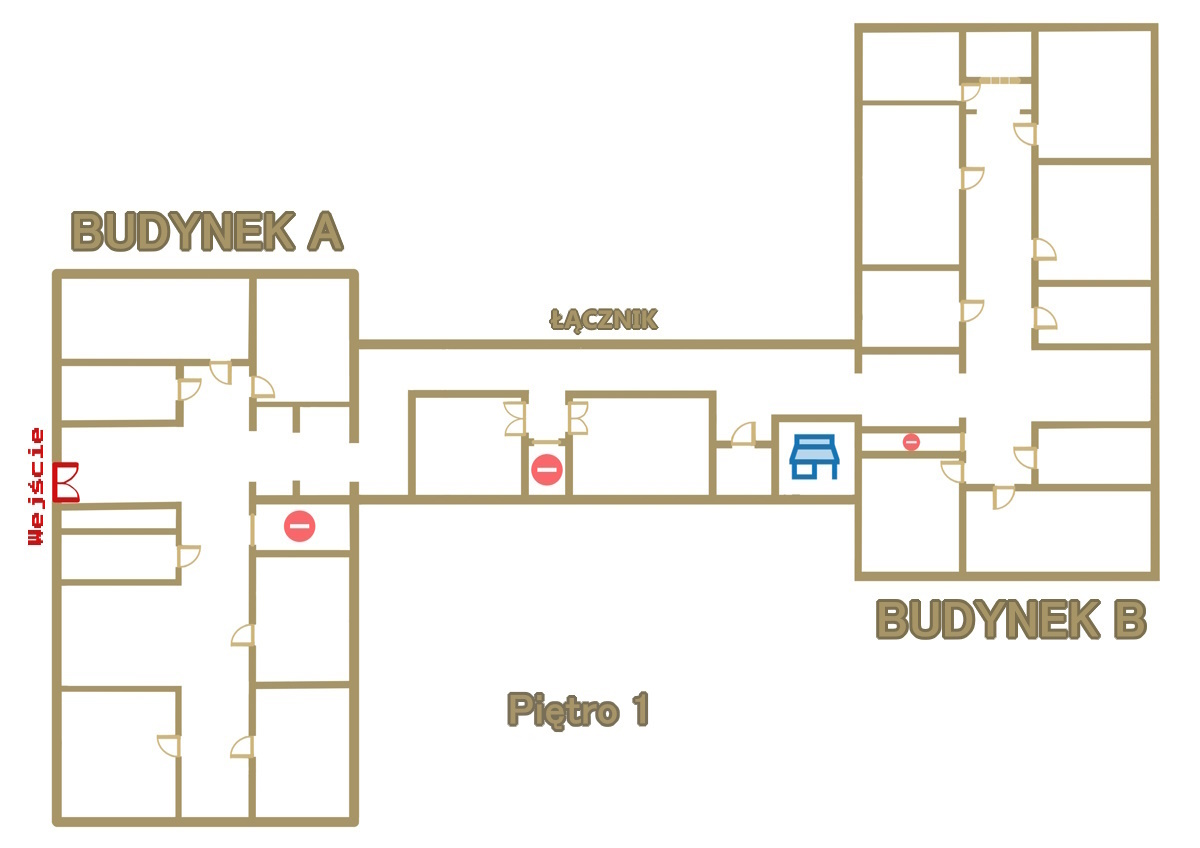
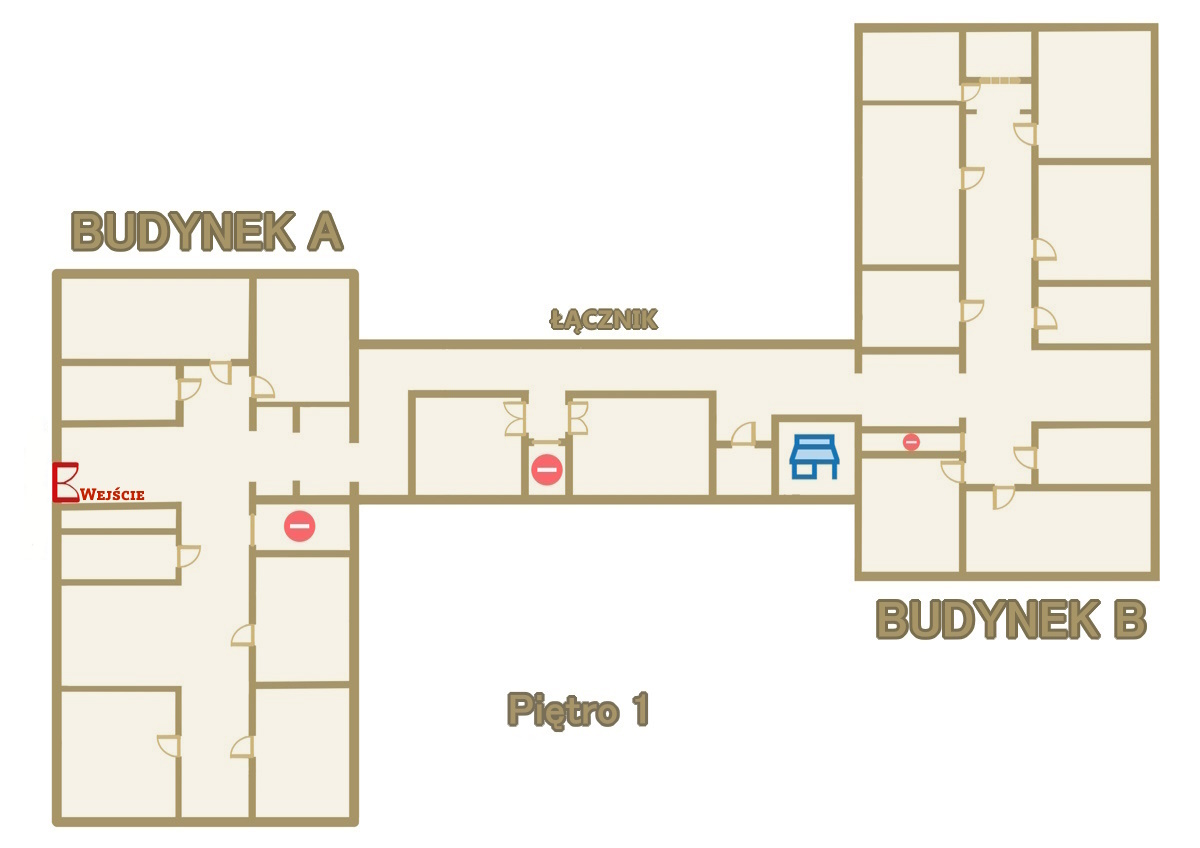
Updated floor colors, updated maniek layout

diff --git a/minigames.html b/minigames.html
@@ -12,6 +12,16 @@
 <body>
 
     <main>
+
+        <div class="enter-fullscreen">
+            <div class="background"></div>
+            <button>
+                <span class="big blue"> Włącz pełny ekran </span> <br>
+                <br> > aby poprawnie korzystać z gry <
+                <br> <span class="blue">(wciśnij ten przycisk)</span>
+            </button>
+        </div>
+
         <div class="games-side">
         
     
@@ -94,5 +104,6 @@
 
     <script src="./js/tictactoe.js"></script>
     <script src="./js/navigation.js"></script>
+    <script src="./js/enter-fullscreen.js"></script>
 </body>
 </html>

diff --git a/css/all.css b/css/all.css
@@ -69,7 +69,7 @@ body {
     left: 50%;
     transform: translate(-50%, -50%);
 
-    font-size: 2rem;
+    font-size: 1.75rem;
     font-weight: bolder;
 
     background-color: #EBEEFF;
@@ -148,7 +148,7 @@ body {
 
     text-align: left;
     padding: 0.75rem;
-    
+
     border-radius: 1rem;
     line-height: 1.75rem;
 }
@@ -421,6 +421,9 @@ main {
     padding: 2px;
     padding-right: 10px;
     padding-left: 10px;
+
+    font-weight: bold;
+    color: rgb(0, 2, 49);
 }
 .button-layer button::after {
     content: '';

diff --git a/js/map.js b/js/map.js
@@ -147,7 +147,7 @@ function mouseMove(e, isMobile) {
 }
 
 function wheel(e) {
-    if (!map_container.contains(e.target)) return;
+    if (!map_container.contains(e.target) || roomSelection.contains(e.target)) return;
 
     e.preventDefault();
     const delta = Math.sign(e.deltaY);

diff --git a/css/TicTacToe.css b/css/TicTacToe.css
@@ -65,8 +65,13 @@ main {
     }
 
     .maniek-box {
+        z-index: 2;
         border-bottom-left-radius: 25px;
         border-bottom-right-radius: 25px;
+    }
+
+    .maniek-box {
+        justify-content: end;
     }
 }
 
